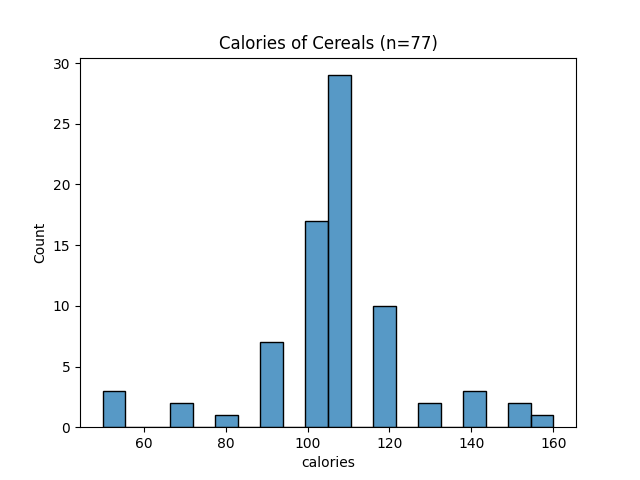
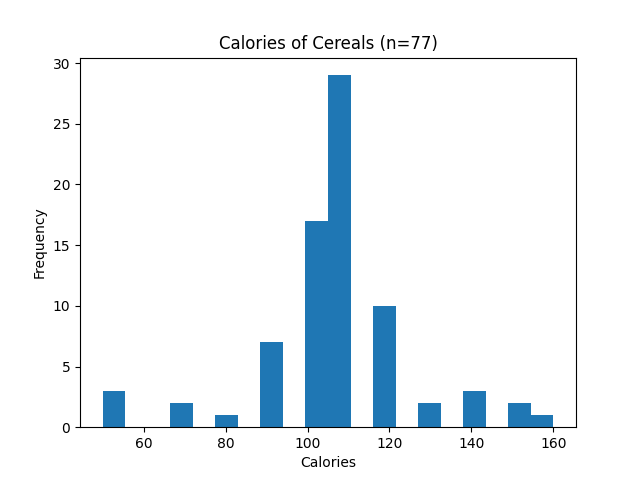
update files

diff --git a/main.py b/main.py
@@ -1,26 +1,35 @@
 """Start main function"""
 
 import polars as pl
-import seaborn as sns
 import matplotlib.pyplot as plt
 from ydata_profiling import ProfileReport
 
-df_pl = pl.read_csv("cereal.csv")
-pandas_df = df_pl.to_pandas()
+df = pl.read_csv("cereal.csv")
 
-def summary():
+
+def summary(data):
     """EDA with Polars describe function to get mean, median, and standard deviation"""
-    print(df_pl.describe())
-    return df_pl.describe() 
+    print(data.describe())
+    return data.describe()
 
-def histogram():
+
+def histogram(data):
     """Displays histogram with seaborn and matplotlib"""
-    sns.histplot(data=df_pl, x="calories", kde=False, bins=20)
+    plt.hist(data["calories"], bins=20)
     plt.title("Calories of Cereals (n=77)")
+    plt.xlabel("Calories")
+    plt.ylabel("Frequency")
     plt.savefig("Calories_of_Cereals.png")
     plt.show()
-    pdf_report_generator(pandas_df)
+    pdf_report_generator(data)
 
-def pdf_report_generator(df):
-    profile = ProfileReport(df, title="Summary Report")
+
+def pdf_report_generator(data):
+    """Generate summary report"""
+    profile = ProfileReport(data, title="Summary Report")
     profile.to_file("Summary_Report.html")
+
+
+if __name__ == "__main__":
+    summary(df)
+    histogram(df)

diff --git a/test_main.py b/test_main.py
@@ -2,18 +2,20 @@
 Start Test
 """
 
-import main 
+import polars as pl
+from main import summary
 
 
 def test_summary():
-    """Test the summary function for descriptive statistics"""
-    new = main.summary()
+    """
+    test summary function in main.py
+    """
+    data = pl.read_csv("cereal.csv")
+    new = summary(data)
     assert new["calories"][2] == 106.88311688311688
     assert new["protein"][-1] == 6.0
     assert new["fat"][4] == 0.0
 
 
 if __name__ == "__main__":
-    # Run the tests 
     test_summary()
-    test_histogram()
